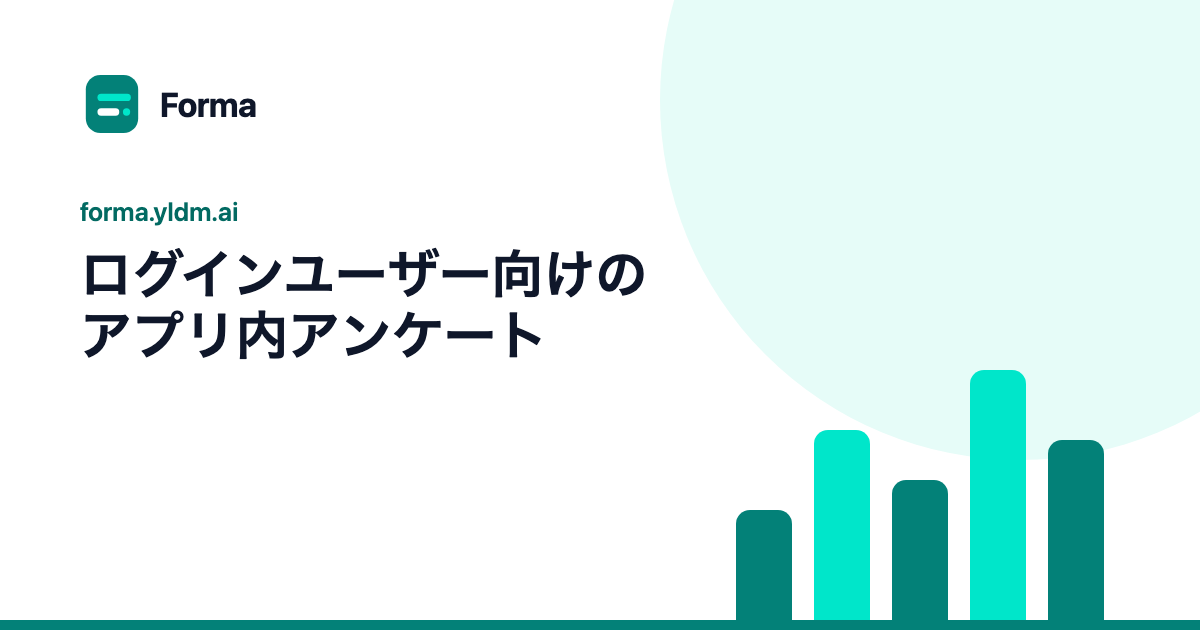
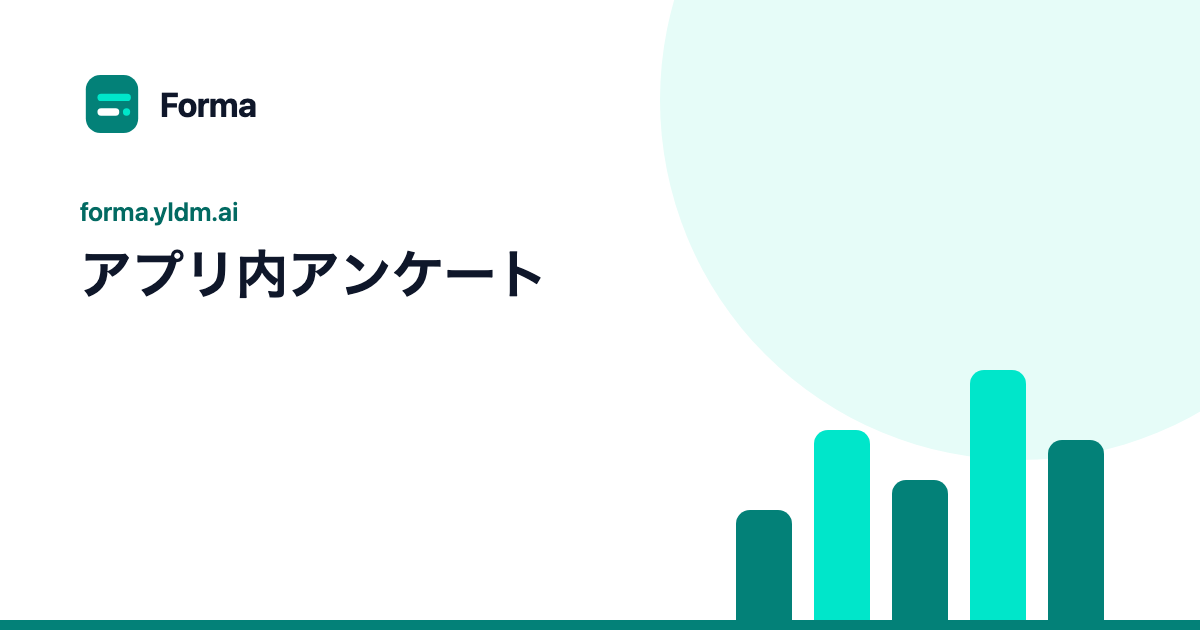
fix(website): phrase-aware breaks in Japanese illustrations, shorter in-app heading

Changed region(s): [[0.0617, 0.3921, 0.555, 0.573]]

diff --git a/apps/website/src/content/ja.ts b/apps/website/src/content/ja.ts
@@ -224,8 +224,8 @@ export const ja: SiteContent = {
         description:
           "ユーザーの識別、属性の付与、セグメント作成、プロダクト内の操作をきっかけにしたアンケート表示。",
       },
-      title: "ログインユーザー向けのアプリ内アンケート",
-      sub: "ユーザーを識別して属性を加え、いま判断したいことに関係する人だけに質問できます。",
+      title: "アプリ内アンケート",
+      sub: "ログイン中のユーザーを識別して属性を加え、いま判断したいことに関係する人だけに質問できます。",
       identify: {
         title: "識別と属性の付与",
         body: "SDK を通じて、アプリからユーザー ID と属性を送信します。連絡先とその属性は Forma に保存されます。",

diff --git a/apps/website/src/styles.css b/apps/website/src/styles.css
@@ -89,7 +89,9 @@
     letter-spacing: 0;
   }
 
-  html:lang(ja) :is(h1, h2, h3) {
+  /* Headings, and the short questions inside the illustrations (all aria-hidden), whose narrow cards would otherwise leave a lone さい or か？ on the last line. */
+  html:lang(ja) :is(h1, h2, h3),
+  html:lang(ja) [aria-hidden="true"] p {
     word-break: auto-phrase;
   }
 
